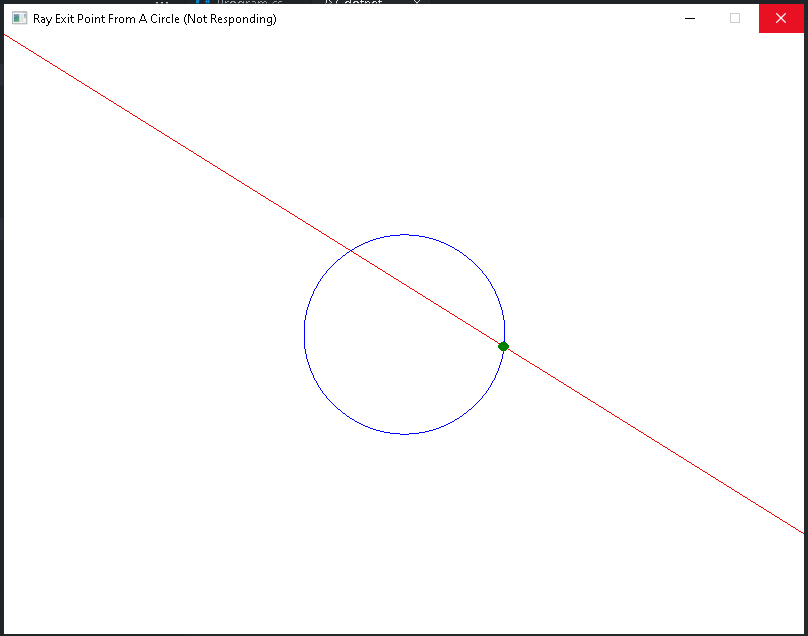
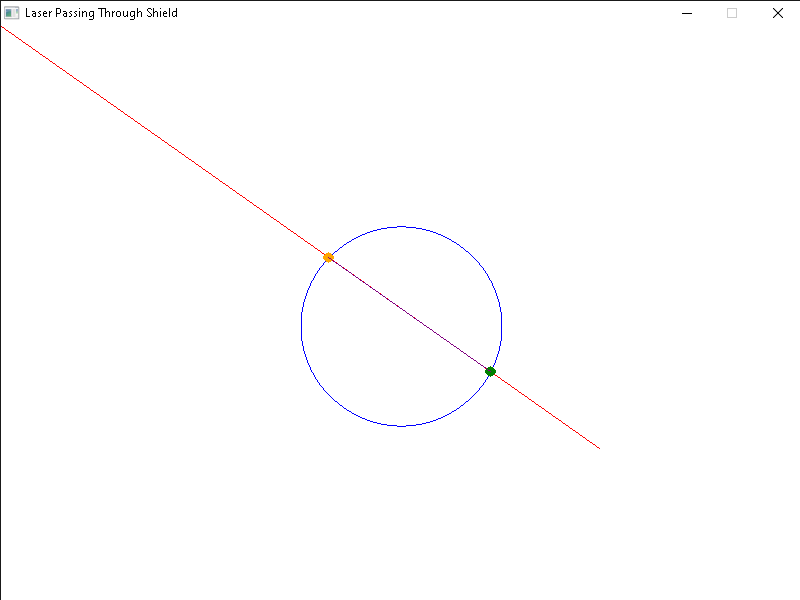
updated the usage example for distant_point_on_circle_heading function

diff --git a/public/usage-examples/geometry/distant_point_on_circle_heading-1-example-oop.cs b/public/usage-examples/geometry/distant_point_on_circle_heading-1-example-oop.cs
@@ -1,41 +1,69 @@
 using SplashKitSDK;
 
-namespace DistantPointOnCircleHeadingExample
+namespace LaserShieldIntersectionExample
 {
     public class Program
     {
         public static void Main()
         {
-            // Open the window for graphical output
-            Window window = new Window("Distant Point Demo", 800, 600);
-            SplashKit.ClearScreen(Color.White);
+            // Open a window
+            Window window = new Window("Laser Passing Through Shield", 800, 600);
 
-            // Define the circle's center and radius
-            Point2D center = SplashKit.PointAt(400, 300);
-            float radius = 100;
+            // Fixed player position
+            Point2D playerPosition = SplashKit.PointAt(0, 0);
 
-            // Define heading in degrees (0 = east, 90 = north, 180 = west, 270 = south)
-            float heading = 90;
+            // Shield represented by a circle
+            Circle shield = new Circle()
+            {
+                Center = SplashKit.PointAt(400, 300),
+                Radius = 100
+            };
 
-            // Define a reference point (can be set to (0,0) for simplicity)
-            Point2D fromPoint = SplashKit.PointAt(0, 0);
+            // Points for entry and exit on the shield
+            Point2D entryPoint = SplashKit.PointAt(0, 0);
+            Point2D exitPoint = SplashKit.PointAt(0, 0);
 
-            // Calculate the distant point on the circle at the given heading
-            Point2D farPoint = SplashKit.DistantPointOnCircleHeading(center, radius, heading);
+            while (!SplashKit.QuitRequested())
+            {
+                SplashKit.ProcessEvents();
+                SplashKit.ClearScreen(Color.White);
 
-            // Draw the circle and the calculated point
-            SplashKit.DrawCircle(Color.Blue, center, radius);
-            SplashKit.DrawPixel(Color.Red, farPoint);
+                // Draw the shield
+                SplashKit.DrawCircle(Color.Blue, shield);
 
-            // Display coordinates as optional debug info
-            SplashKit.DrawText($"Point: ({farPoint.X:0.00}, {farPoint.Y:0.00})", Color.Black, 10, 10);
+                // Get current mouse position
+                Point2D aimPoint = SplashKit.MousePosition();
 
-            // Refresh the screen to display changes at 60 FPS
-            SplashKit.RefreshScreen(60);
-            SplashKit.Delay(5000);
+                // Draw aiming laser
+                SplashKit.DrawLine(Color.Red, playerPosition, aimPoint);
 
-            // Close the window after the delay
-            window.Close();
+                // Calculate laser heading
+                Vector2D heading = SplashKit.UnitVector(SplashKit.VectorPointToPoint(playerPosition, aimPoint));
+
+                // Find entry point (first intersection)
+                float entryDistance = SplashKit.RayCircleIntersectDistance(playerPosition, heading, shield);
+
+                if (entryDistance > 0)
+                {
+                    // Draw entry point
+                    entryPoint = SplashKit.PointAt(
+                        playerPosition.X + heading.X * entryDistance,
+                        playerPosition.Y + heading.Y * entryDistance
+                    );
+                    SplashKit.FillCircle(Color.Orange, entryPoint.X, entryPoint.Y, 5);
+
+                    // Find exit point using distant_point_on_circle_heading
+                    if (SplashKit.DistantPointOnCircleHeading(playerPosition, shield, heading, ref exitPoint))
+                    {
+                        SplashKit.FillCircle(Color.Green, exitPoint.X, exitPoint.Y, 5);
+
+                        // Draw line between entry and exit
+                        SplashKit.DrawLine(Color.Purple, entryPoint, exitPoint);
+                    }
+                }
+
+                SplashKit.RefreshScreen(60);
+            }
         }
     }
 }

diff --git a/public/usage-examples/geometry/distant_point_on_circle_heading-1-example-sk.cpp b/public/usage-examples/geometry/distant_point_on_circle_heading-1-example-sk.cpp
@@ -2,34 +2,56 @@
 
 int main()
 {
-    // Open a new window
-    open_window("Ray Exit Point From A Circle", 800, 600);
+    // Open a window
+    open_window("Laser Passing Through Shield", 800, 600);
 
-    // Define a red laser beam starting from the top-left toward bottom-right
-    point_2d ray_origin = point_at(0, 0);
-    point_2d ray_end = point_at(800, 500);
-    vector_2d ray_direction = unit_vector(vector_to(ray_end));
+    // Fixed player position
+    point_2d player_position = point_at(0, 0);
 
-    // Create a circle centered in the window with radius 100
-    circle target_circle = circle_at(point_at(400, 300), 100);
+    // Shield represented by a circle
+    circle shield = circle_at(point_at(400, 300), 100);
 
-    point_2d exit_point = point_at(0, 0);
+    // Points for entry and exit on the shield
+    point_2d entry_point;
+    point_2d exit_point;
 
     while (!quit_requested())
     {
+        process_events();
         clear_screen(COLOR_WHITE);
 
-        // Draw the laser beam
-        draw_line(COLOR_RED, ray_origin, ray_end);
+        // Draw the shield
+        draw_circle(COLOR_BLUE, shield);
 
-        // Draw the circle
-        draw_circle(COLOR_BLUE, target_circle);
+        // Get current mouse position
+        point_2d aim_point = mouse_position();
 
-        // Try to find the distant point on the circle along the laser beam
-        if (distant_point_on_circle_heading(ray_origin, target_circle, ray_direction, exit_point))
+        // Draw aiming laser
+        draw_line(COLOR_RED, player_position, aim_point);
+
+        // Calculate laser heading
+        vector_2d heading = unit_vector(vector_point_to_point(player_position, aim_point));
+
+        // Find entry point (first intersection)
+        float entry_distance = ray_circle_intersect_distance(player_position, heading, shield);
+
+        if (entry_distance > 0)
         {
-            // If a valid exit point is found, draw it
-            fill_circle(COLOR_GREEN, exit_point.x, exit_point.y, 5);
+            // Draw entry point
+            entry_point = point_at(
+                player_position.x + heading.x * entry_distance,
+                player_position.y + heading.y * entry_distance
+            );
+            fill_circle(COLOR_ORANGE, entry_point.x, entry_point.y, 5);
+
+            // Find exit point using distant_point_on_circle_heading
+            if (distant_point_on_circle_heading(player_position, shield, heading, exit_point))
+            {
+                fill_circle(COLOR_GREEN, exit_point.x, exit_point.y, 5);
+
+                // Draw line between entry and exit
+                draw_line(COLOR_PURPLE, entry_point, exit_point);
+            }
         }
 
         refresh_screen(60);

diff --git a/public/usage-examples/geometry/distant_point_on_circle_heading-1-example-top-level.cs b/public/usage-examples/geometry/distant_point_on_circle_heading-1-example-top-level.cs
@@ -1,38 +1,60 @@
 using SplashKitSDK;
 using static SplashKitSDK.SplashKit;
 
-// Open a new 800x600 window
-Window window = new Window("Ray Exit Point From A Circle", 800, 600);
+// Open a window
+Window window = new Window("Laser Passing Through Shield", 800, 600);
 
-// Define a laser beam starting from the top-left toward bottom-right
-Point2D rayOrigin = PointAt(0, 0);
-Point2D rayEnd = PointAt(800, 500);
-Vector2D rayDirection = UnitVector(VectorTo(rayEnd));
+// Fixed player position
+Point2D playerPosition = PointAt(0, 0);
 
-// Create a circle centered in the window with radius 100
-Circle targetCircle = new Circle()
+// Shield represented by a circle
+Circle shield = new Circle()
 {
     Center = PointAt(400, 300),
     Radius = 100
 };
 
+// Points for entry and exit on the shield
+Point2D entryPoint = PointAt(0, 0);
 Point2D exitPoint = PointAt(0, 0);
 
 while (!QuitRequested())
 {
+    ProcessEvents();
     ClearScreen(Color.White);
 
-    // Draw the laser beam
-    DrawLine(Color.Red, rayOrigin, rayEnd);
+    // Draw the shield
+    DrawCircle(Color.Blue, shield);
 
-    // Draw the target circle
-    DrawCircle(Color.Blue, targetCircle);
+    // Get current mouse position
+    Point2D aimPoint = MousePosition();
 
-    // Try to find the exit point on the circle along the heading
-    if (DistantPointOnCircleHeading(rayOrigin, targetCircle, rayDirection, ref exitPoint))
+    // Draw aiming laser
+    DrawLine(Color.Red, playerPosition, aimPoint);
+
+    // Calculate laser heading
+    Vector2D heading = UnitVector(VectorPointToPoint(playerPosition, aimPoint));
+
+    // Find entry point (first intersection)
+    float entryDistance = RayCircleIntersectDistance(playerPosition, heading, shield);
+
+    if (entryDistance > 0)
     {
-        // If a valid exit point is found, draw it
-        FillCircle(Color.Green, exitPoint.X, exitPoint.Y, 5);
+        // Draw entry point
+        entryPoint = PointAt(
+            playerPosition.X + heading.X * entryDistance,
+            playerPosition.Y + heading.Y * entryDistance
+        );
+        FillCircle(Color.Orange, entryPoint.X, entryPoint.Y, 5);
+
+        // Find exit point using distant_point_on_circle_heading
+        if (DistantPointOnCircleHeading(playerPosition, shield, heading, ref exitPoint))
+        {
+            FillCircle(Color.Green, exitPoint.X, exitPoint.Y, 5);
+
+            // Draw line between entry and exit
+            DrawLine(Color.Purple, entryPoint, exitPoint);
+        }
     }
 
     RefreshScreen(60);

diff --git a/public/usage-examples/geometry/distant_point_on_circle_heading-1-example.py b/public/usage-examples/geometry/distant_point_on_circle_heading-1-example.py
@@ -1,31 +1,50 @@
 from splashkit import *
 
-# Open a new window
-open_window("Ray Exit Point From A Circle", 800, 600)
+# Open a window
+open_window("Laser Passing Through Shield", 800, 600)
 
-# Define a laser beam starting from the top-left toward bottom-right
-ray_origin = point_at(0, 0)
-ray_end = point_at(800, 500)
-ray_direction = unit_vector(vector_to_point(ray_end))
+# Fixed player position
+player_position = point_at(0, 0)
 
-# Create a circle centered in the window with radius 100
-target_circle = circle_at(point_at(400, 300), 100)
+# Shield represented by a circle
+shield = circle_at(point_at(400, 300), 100)
 
+# Points for entry and exit on the shield
+entry_point = point_at(0, 0)
 exit_point = point_at(0, 0)
 
 while not quit_requested():
+    process_events()
     clear_screen(color_white())
 
-    # Draw the laser beam
-    draw_line_point_to_point(color_red(), ray_origin, ray_end)
+    # Draw the shield
+    draw_circle_record(color_blue(), shield)
 
-    # Draw the circle
-    draw_circle_record(color_blue(), target_circle)
+    # Get current mouse position
+    aim_point = mouse_position()
 
-    # Try to find the exit point on the circle along the laser beam
-    if distant_point_on_circle_heading(ray_origin, target_circle, ray_direction, exit_point):
-        
-        # If a valid exit point is found, draw it
-        fill_circle(color_green(), exit_point.x, exit_point.y, 5)
+    # Draw aiming laser
+    draw_line_point_to_point(color_red(), player_position, aim_point)
+
+    # Calculate laser heading
+    heading = unit_vector(vector_point_to_point(player_position, aim_point))
+
+    # Find entry point (first intersection)
+    entry_distance = ray_circle_intersect_distance(player_position, heading, shield)
+
+    if entry_distance > 0:
+        # Draw entry point
+        entry_point = point_at(
+            player_position.x + heading.x * entry_distance,
+            player_position.y + heading.y * entry_distance
+        )
+        fill_circle(color_orange(), entry_point.x, entry_point.y, 5)
+
+        # Find exit point using distant_point_on_circle_heading
+        if distant_point_on_circle_heading(player_position, shield, heading, exit_point):
+            fill_circle(color_green(), exit_point.x, exit_point.y, 5)
+
+            # Draw line between entry and exit
+            draw_line_point_to_point(color_purple(), entry_point, exit_point)
 
     refresh_screen_with_target_fps(60)
